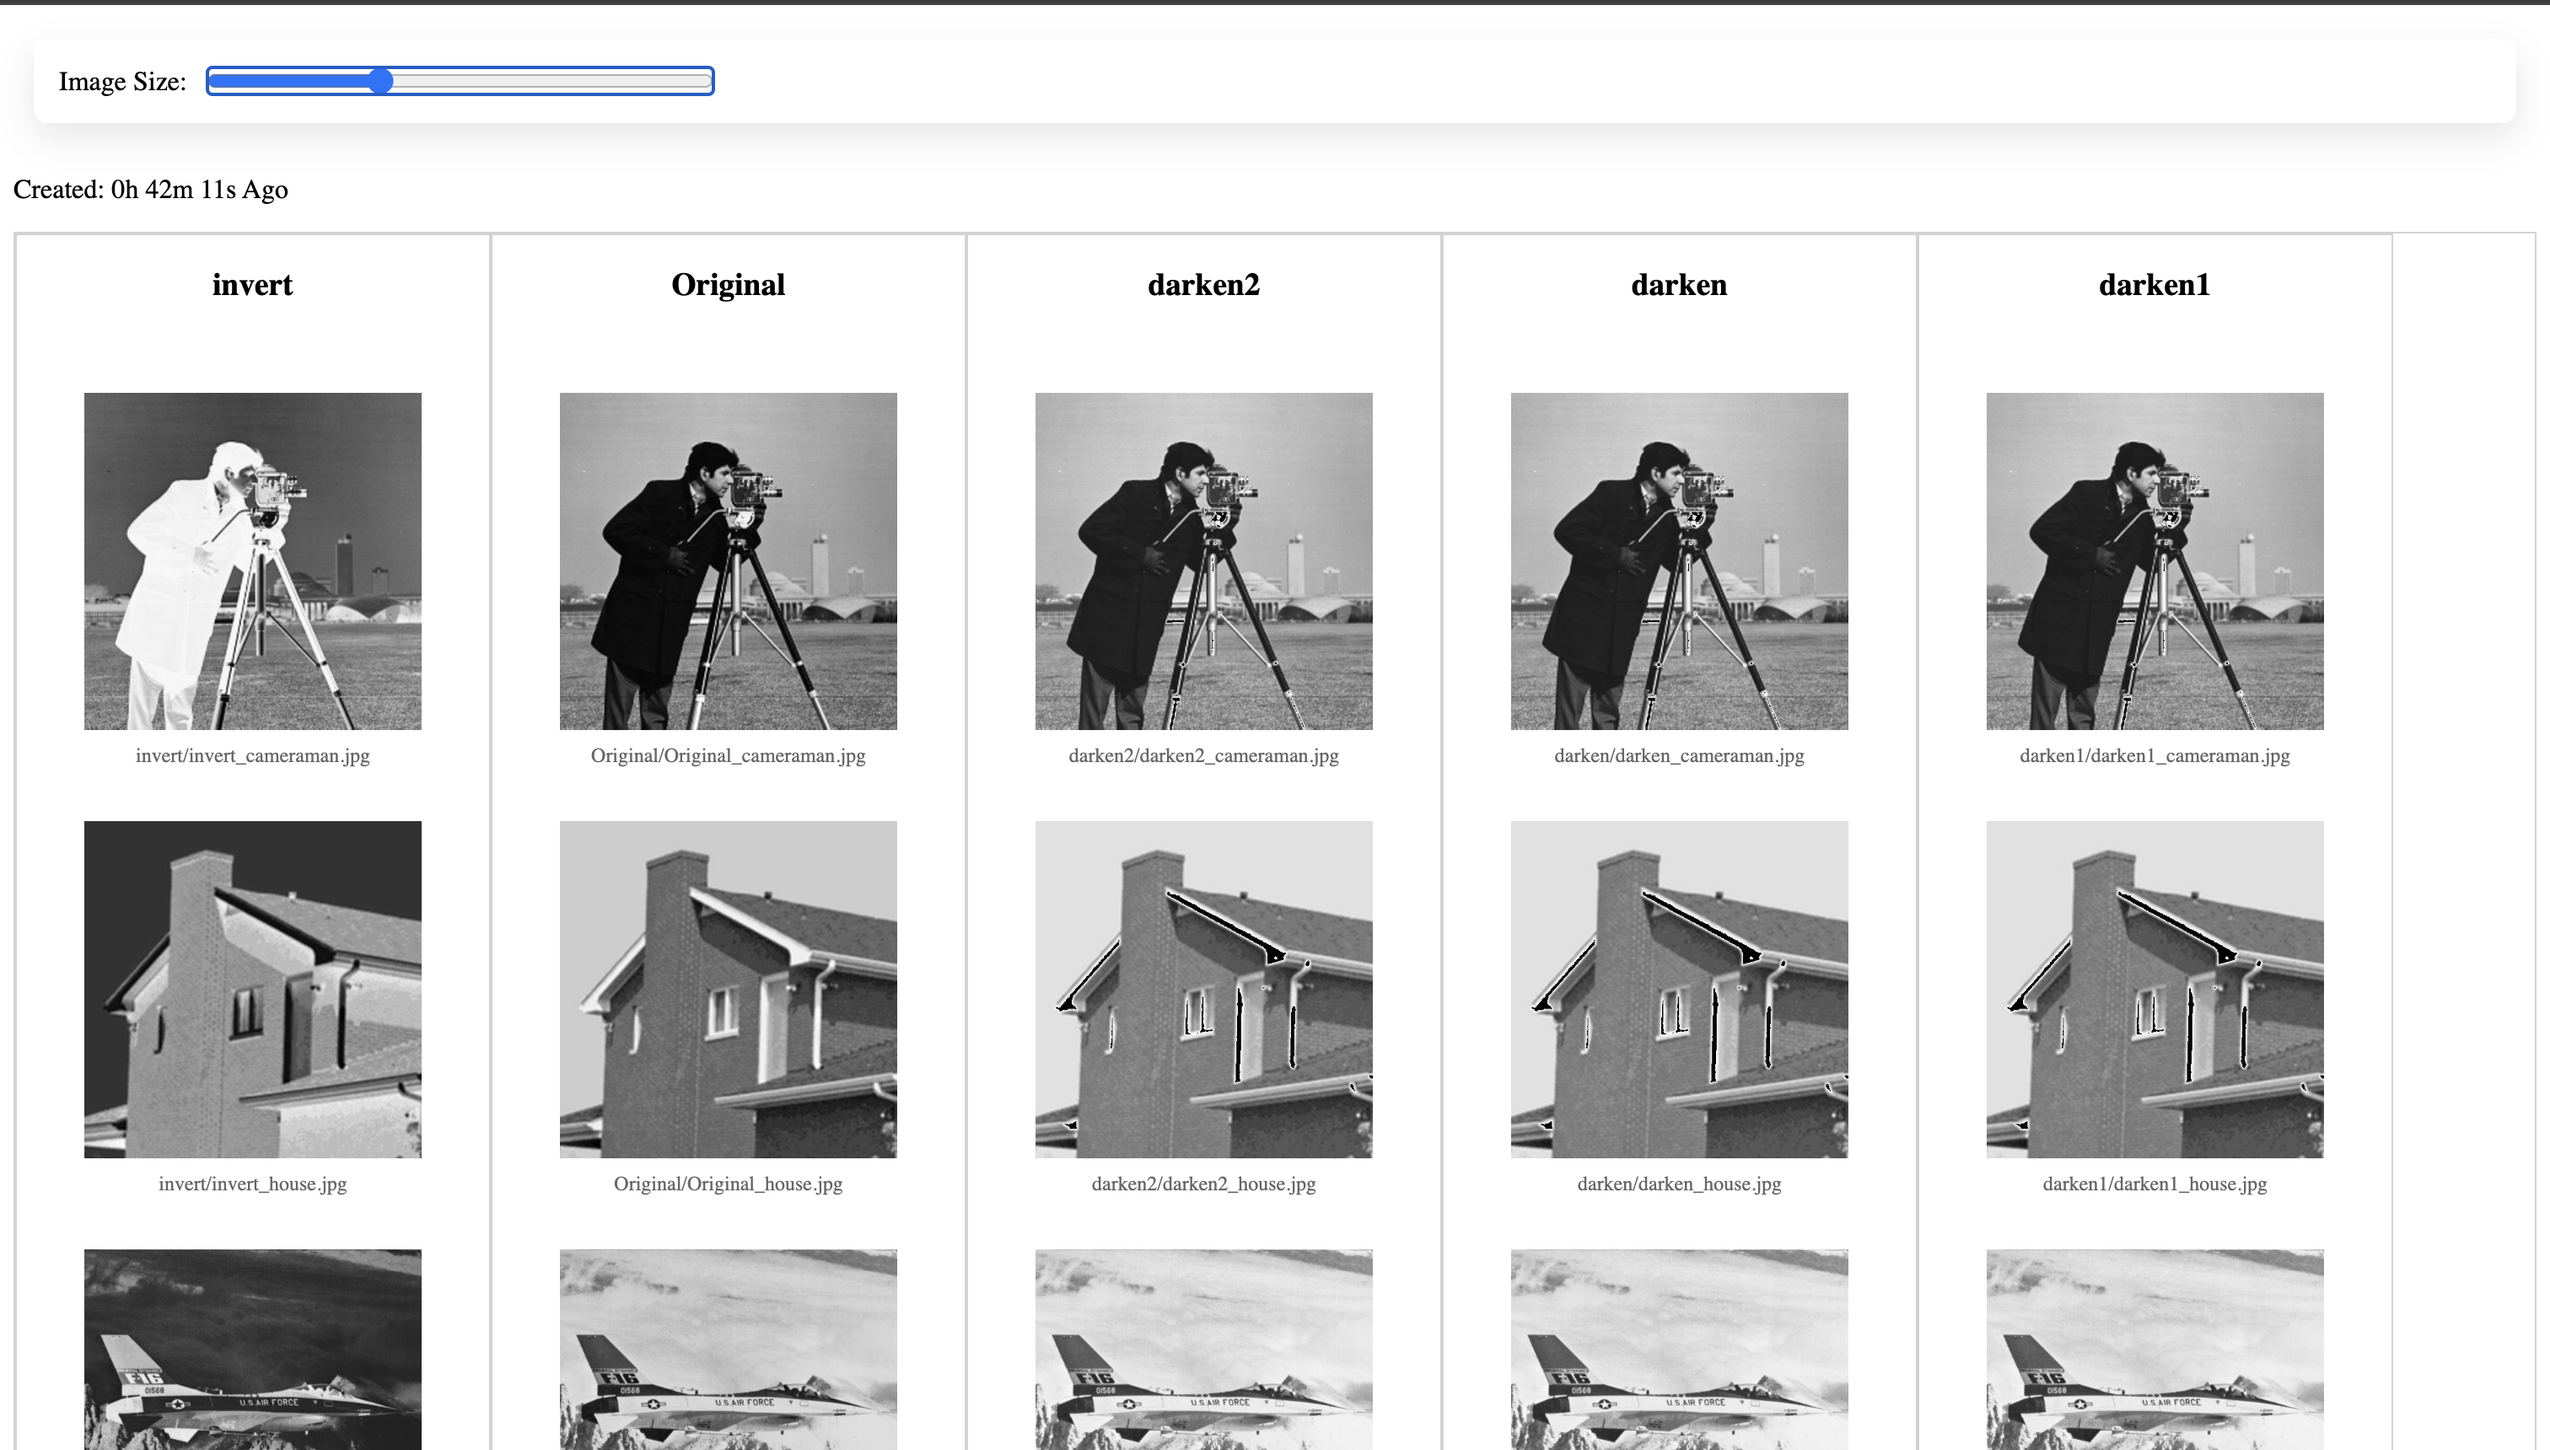
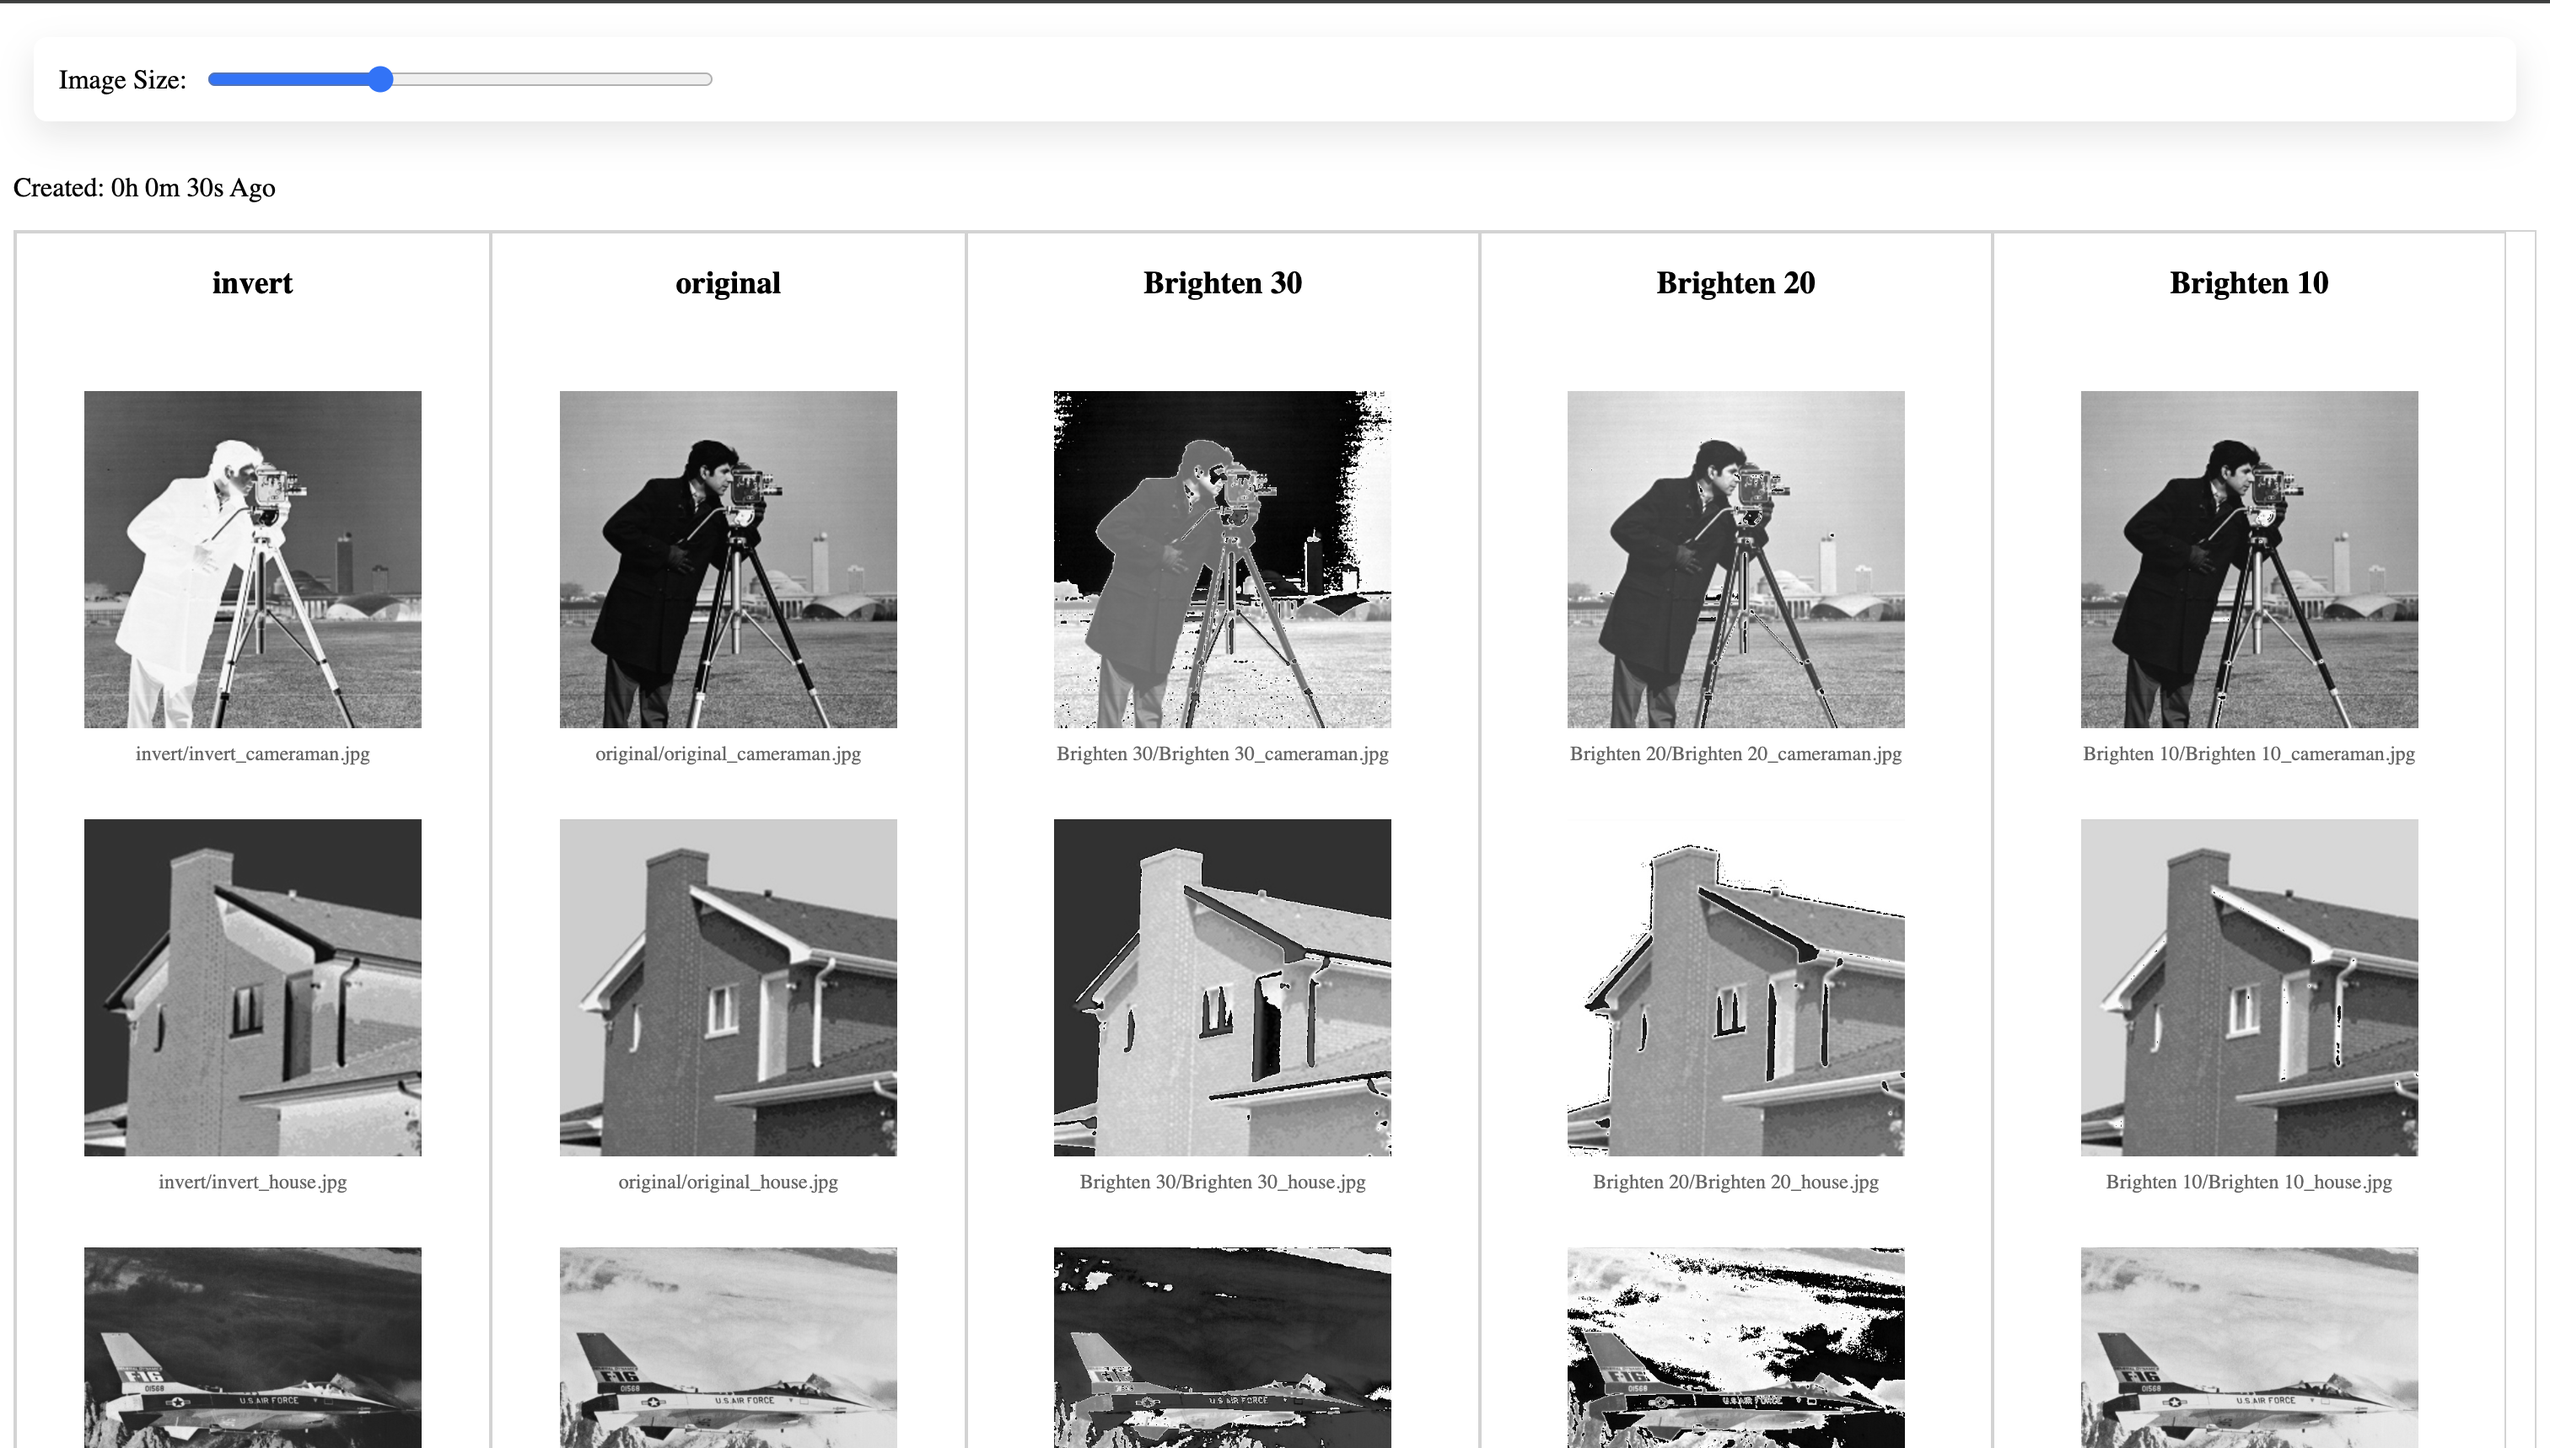
l

diff --git a/docs/results.html b/docs/results.html
@@ -1,0 +1,170 @@
+<!DOCTYPE html>
+<html lang="en">
+<head>
+    <meta charset="UTF-8">
+    <meta name="viewport" content="width=device-width, initial-scale=1.0">
+    <title>Image Processing Toolkit</title>
+    <script src="https://cdn.tailwindcss.com"></script>
+</head>
+<body class="bg-gray-100 text-gray-800 font-sans">
+    <header class="bg-blue-600 text-white sticky top-0 z-50">
+        <nav class="container mx-auto px-4 py-4">
+            <ul class="flex justify-center space-x-6">
+                <li><a href="#overview" class="hover:text-blue-200">Overview</a></li>
+                <li><a href="#features" class="hover:text-blue-200">Features</a></li>
+                <li><a href="#functions" class="hover:text-blue-200">Functions</a></li>
+                <li><a href="#structure" class="hover:text-blue-200">Structure</a></li>
+            </ul>
+        </nav>
+    </header>
+
+    <main class="container mx-auto px-4 py-8">
+        <section id="hero" class="text-center bg-blue-600 text-white py-16 mb-12 rounded-lg">
+            <h1 class="text-4xl font-bold mb-4">Image Processing Toolkit</h1>
+            <p class="text-xl">A beginner-friendly toolkit for image processing with OpenCV</p>
+        </section>
+
+        <section id="overview" class="bg-white p-6 rounded-lg shadow-md mb-8">
+            <h2 class="text-2xl font-bold mb-4 border-b-2 border-blue-600 pb-2">Project Overview</h2>
+            <p class="mb-4">This project provides a beginner-friendly toolkit for image processing with OpenCV, designed to simplify the process of experimenting with image transformations. It abstracts away tedious tasks such as loading, saving, and correctly rendering images, allowing users to focus on creating and applying transformations. Processed results are displayed directly on a live webpage, enabling real-time visualization of changes without the need to switch between tools, folders, or interfaces.</p>
+        </section>
+
+        <section id="features" class="bg-white p-6 rounded-lg shadow-md mb-8">
+            <h2 class="text-2xl font-bold mb-4 border-b-2 border-blue-600 pb-2">Key Features</h2>
+            <ul class="space-y-4">
+                <li>
+                    <h3 class="text-xl font-semibold mb-2">Live Server Integration</h3>
+                    <p>Run the toolkit using a live server, where all changes are instantly reflected in the browser.</p>
+                </li>
+                <li>
+                    <h3 class="text-xl font-semibold mb-2">Real-Time Results</h3>
+                    <p>Create Python functions that take input images, apply transformations, and return the modified images. Changes are displayed dynamically without navigating between directories using a CLI or GUI file explorer.</p>
+                </li>
+            </ul>
+        </section>
+
+        <section id="functions" class="bg-white p-6 rounded-lg shadow-md mb-8">
+            <h2 class="text-2xl font-bold mb-4 border-b-2 border-blue-600 pb-2">Functions</h2>
+            <div class="mb-8">
+                <h3 class="text-xl font-semibold mb-2">ImageProcessor</h3>
+                <p class="mb-4">The process_image function is the core utility for applying custom image processing functions to an input image. It simplifies the workflow by handling file management, processing, and optional output customization.</p>
+                <pre class="bg-gray-100 p-4 rounded-lg overflow-x-auto mb-4"><code class="text-sm">from src.ImageProcessor.ProcessImage import process_image
+
+def process_image(file_path: str, file_name: str, function_name="random", process_fn=None, save_as_jpeg=False) -> bool:</code></pre>
+                <ul class="list-disc pl-6 space-y-2">
+                    <li><strong>file_path (str):</strong> The directory path where the input image is located.
+                        <ul class="list-disc pl-6 mt-2">
+                            <li>Example: "./assets/input_images/".</li>
+                        </ul>
+                    </li>
+                    <li><strong>file_name (str):</strong> The name of the input image file (including the extension).
+                        <ul class="list-disc pl-6 mt-2">
+                            <li>Example: "example.png"</li>
+                        </ul>
+                    </li>
+                    <li><strong>function_name (str):</strong> Name of the function, which specifies the folder where the output images will be saved. By default, the folder is named 'random'.
+                        <ul class="list-disc pl-6 mt-2">
+                            <li>Default: "random"</li>
+                            <li>Example: "invert"</li>
+                        </ul>
+                    </li>
+                    <li><strong>process_fn (callable):</strong> A Python function that defines the image processing logic. The function should accept an input image and return the processed image.
+                        <ul class="list-disc pl-6 mt-2">
+                            <li>Example:
+                                <pre class="bg-gray-100 p-4 rounded-lg overflow-x-auto mt-2"><code class="text-sm">def invert_colors(image):
+    return cv2.bitwise_not(image)</code></pre>
+                            </li>
+                        </ul>
+                    </li>
+                    <li><strong>save_as_jpeg (bool):</strong> Save output as JPG instead of origin format</li>
+                </ul>
+            </div>
+
+            <div>
+                <h3 class="text-xl font-semibold mb-2">ProcessResultsHTML</h3>
+                <p class="mb-4">The process_results function is a utility for consolidating processed images and displaying them in an organized HTML file. It takes the processed image files from a source directory, generates an HTML report, and saves the report to the specified output directory.</p>
+                <pre class="bg-gray-100 p-4 rounded-lg overflow-x-auto mb-4"><code class="text-sm">from src.ProcessResultsHTML import process_results
+
+def process_results(src="src", output_dir="out", output_file="results.html"):</code></pre>
+                <ul class="list-disc pl-6 space-y-2">
+                    <li><strong>src (str):</strong> The source directory where processed images are stored.
+                        <ul class="list-disc pl-6 mt-2">
+                            <li>Example: If your processed images are in ./cache/images/, set src="cache/images"</li>
+                        </ul>
+                    </li>
+                    <li><strong>output_dir (str):</strong> The directory where the resulting HTML file will be saved.
+                        <ul class="list-disc pl-6 mt-2">
+                            <li>Example: "./reports/"</li>
+                        </ul>
+                    </li>
+                    <li><strong>output_file (str):</strong> The name of the HTML file to generate.
+                        <ul class="list-disc pl-6 mt-2">
+                            <li>Example: "processed_images_report.html"</li>
+                        </ul>
+                    </li>
+                </ul>
+                <img src="/placeholder.svg?height=300&width=600" alt="Results example" class="mt-4 border border-gray-300 rounded-lg max-w-full h-auto" />
+            </div>
+        </section>
+
+        <section id="structure" class="bg-white p-6 rounded-lg shadow-md mb-8">
+            <h2 class="text-2xl font-bold mb-4 border-b-2 border-blue-600 pb-2">Project Structure</h2>
+            <pre class="bg-gray-100 p-4 rounded-lg overflow-x-auto mb-4"><code class="text-sm">PROJECT/
+│
+├── .devcontainer/           # DevContainer configuration for remote or containerized development
+├── .env                     # Environment variables for the project
+├── .github/                 # GitHub-specific workflows and configurations
+├── assets/                  # Input media files (images and videos)
+│   └── input_images/        # Add input images or videos here
+│
+├── cache/                   # Stores processed images (output files)
+│   └── images/              # Automatically generated processed images
+│
+├── ideas/                   # Placeholder for project-related ideas or future plans
+├── js/                      # JavaScript files (if applicable for the frontend)
+├── log/                     # Logs generated during runtime
+├── out/                     # Contains final output files (like reports or results)
+│   └── results.html         # Auto-generated HTML file showing processed results
+│
+├── plugins/                 # Plugins or helper assets (e.g., images, external scripts)
+│   └── results.png          # Example image used in the documentation
+│
+├── src/                     # Source code directory
+│   ├── ImageProcessor/      # Core image processing functionality
+│   │   ├── __init__.py      # Package initialization
+│   │   └── functions.py     # Main functions for processing images
+│   └── ProcessResultsHTML.py # Generates HTML reports for processed images
+│
+├── templates/               # HTML or Jinja templates (if applicable)
+├── testsuml/                # Testing utilities or scripts
+├── uml/                     # UML diagrams or architecture documentation
+│
+├── .editorconfig            # Editor configuration for consistent coding styles
+├── .gitignore               # Specifies files and directories ignored by Git
+├── .gitpod.Dockerfile       # Dockerfile for Gitpod development environment
+├── .gitpod.yml              # Gitpod configuration file
+├── .prettierrc              # Configuration for Prettier code formatting
+├── CONTRIBUTING.md          # Guidelines for contributing to the project
+├── LICENSE.txt              # License information
+├── main.py                  # Main entry point for the application
+├── README.md                # Project documentation
+├── requirements.txt         # Python dependencies
+├── SECURITY.md              # Security guidelines
+├── setup.py                 # Python package setup</code></pre>
+            <p class="mt-4">The structure includes directories for input files (assets/input_images/), processed outputs (cache/images/), and reports (out/results.html). Core logic resides in src/, featuring modules for image processing (ImageProcessor/functions.py) and HTML report generation (ProcessResultsHTML.py). Configurations like .editorconfig ensure consistent coding styles, while .gitpod.Dockerfile and .gitpod.yml enable streamlined containerized development. The project also includes detailed documentation (README.md, CONTRIBUTING.md) and excludes temporary files using .gitignore.</p>
+        </section>
+
+
+        <section id="structure" class="bg-white p-6 rounded-lg shadow-md mb-8">
+            <p class="mt-4">visualize results with original images for easy debugging</p>
+            <img src="https://github.com/jayd719/openCV/raw/develop/plugins/results.png" alt="">
+        </section>    
+
+    </main>
+
+    <footer class="bg-gray-800 text-white text-center py-4 mt-12">
+        <p>&copy; 2023 Image Processing Toolkit. All rights reserved.</p>
+    </footer>
+</body>
+</html>
+

diff --git a/main.py b/main.py
@@ -23,7 +23,9 @@ def process_folder(src="./assets/input_images/"):
                 transformations = {
                     "invert": invert_image,
                     "original": convert_to_jpg,
-                    "darken": brighten_image,  
+                    "Brighten 10": lambda img: brighten_image(img, 10),
+                    "Brighten 20": lambda img: brighten_image(img, 50),
+                    "Brighten 30": lambda img: brighten_image(img, 100),
                 }
 
                 for function_name, process_fn in transformations.items():

diff --git a/src/functions.py b/src/functions.py
@@ -5,5 +5,5 @@ def invert_image(img):
 def convert_to_jpg(img):
     return img
 
-def brighten_image(img):
-    return img+20
+def brighten_image(img,value):
+    return img+value
